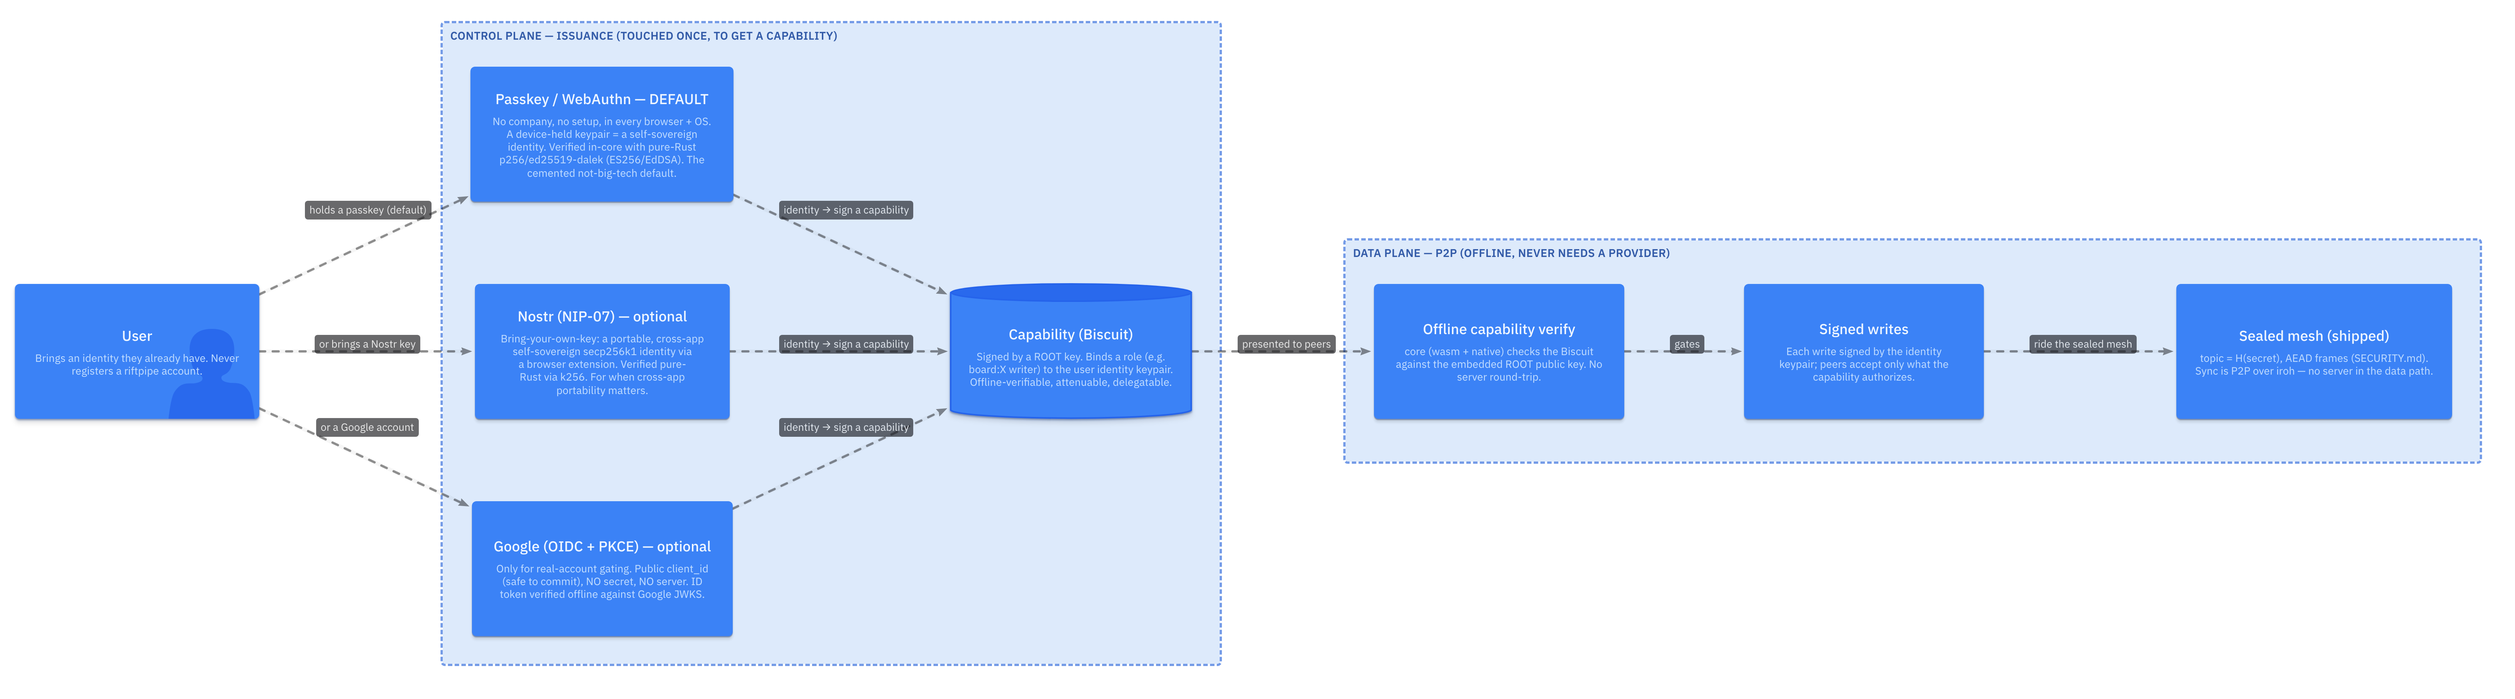
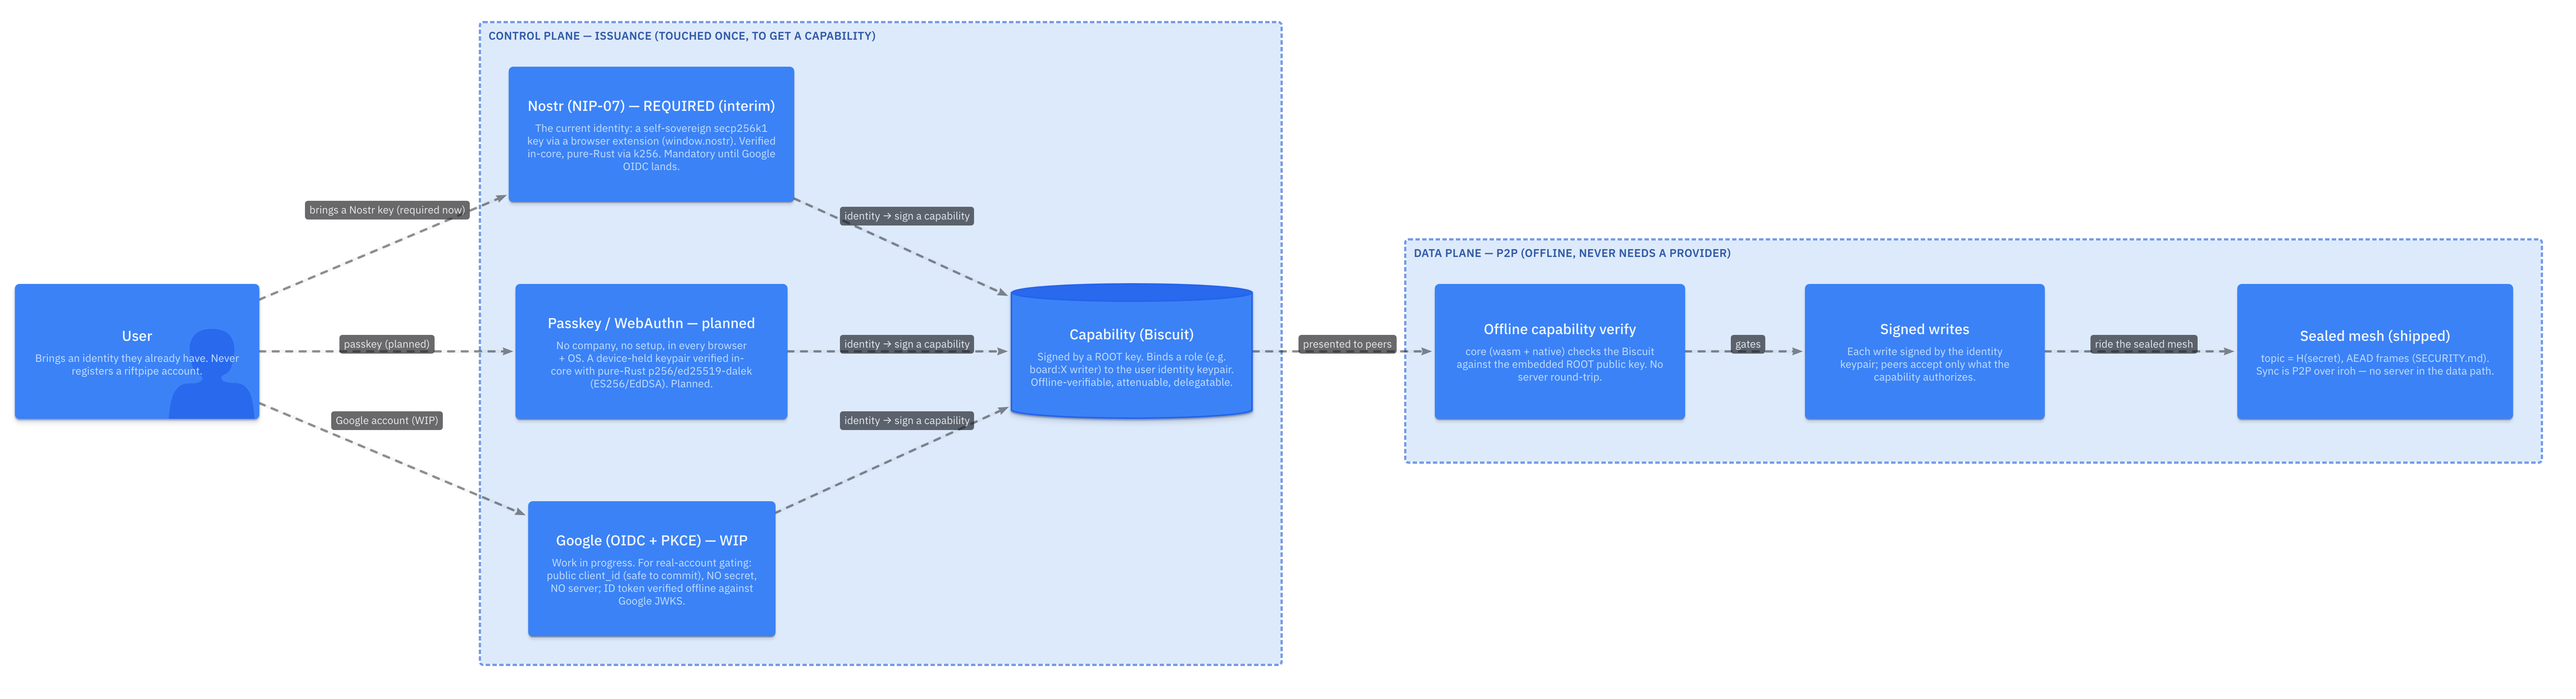
auth diagram: Google → WIP, Nostr → required (interim), passkey → planned
Reprioritize the identity front door: Nostr (NIP-07, pure-Rust k256 verify)
is the required interim identity — fastest to ship, no company, no hosting —
mandatory until Google OIDC lands. Google marked WIP; passkey demoted from
day-one default to planned (still the strongest no-company option
long-term). All three vouch for the same signing keypair behind one
verifier, so this is sequencing, not architecture. Diagram (auth.likec4 ->
auth_planes.png) + auth.md decision text updated to match.

Changed region(s): [[0.0, 0.0311, 0.965, 0.9636], [0.0934, 0.4041, 0.1245, 0.4352]]

diff --git a/docs/planned/auth.md b/docs/planned/auth.md
@@ -67,16 +67,20 @@ one-time registration exists only to *start* a login and stamp the token's
 audience. So: no secret committed, nothing hosted, and the login flow runs
 entirely in the browser.
 
-## Decision: passkeys (non-big-tech default) + Google (optional reach)
+## Decision: Nostr now (required, interim) → Google (WIP) → passkeys (planned)
 
-**The cemented non-big-tech identity is passkeys / WebAuthn.** It is the only
-option that satisfies *every* constraint at once: owned by **no company** (a
-FIDO Alliance / W3C open standard), already built into **every current browser
-and OS** ("built for anyone to use already"), **nothing to host**, **nothing to
-register**, **no secret to commit**, and it yields exactly the **self-sovereign
-keypair** the capability model wants. **Google (OIDC + PKCE)** is an *optional*
-add-on for boards that specifically need real-world accounts — not the default,
-and never required.
+**Current priority (2026-07-20):** **Nostr (NIP-07)** is the *required interim*
+identity — it's the fastest to ship (a self-sovereign secp256k1 key from a
+browser extension via `window.nostr`, verified in-core pure-Rust with `k256`),
+needs no company and no hosting, and is mandatory until Google OIDC is built.
+**Google (OIDC + PKCE)** is **WIP** — the future real-account option. **Passkeys
+/ WebAuthn** remain **planned** (still the strongest no-company option long-term;
+its wasm verification path is proven, below), but no longer the day-one default.
+
+All three are interchangeable at the root of trust — each just vouches for the
+same self-generated signing keypair — so this is a sequencing choice, not an
+architectural one: Nostr ships first, Google and passkeys plug in later behind
+the same verifier.
 
 ### Passkeys / WebAuthn — the identity
 
